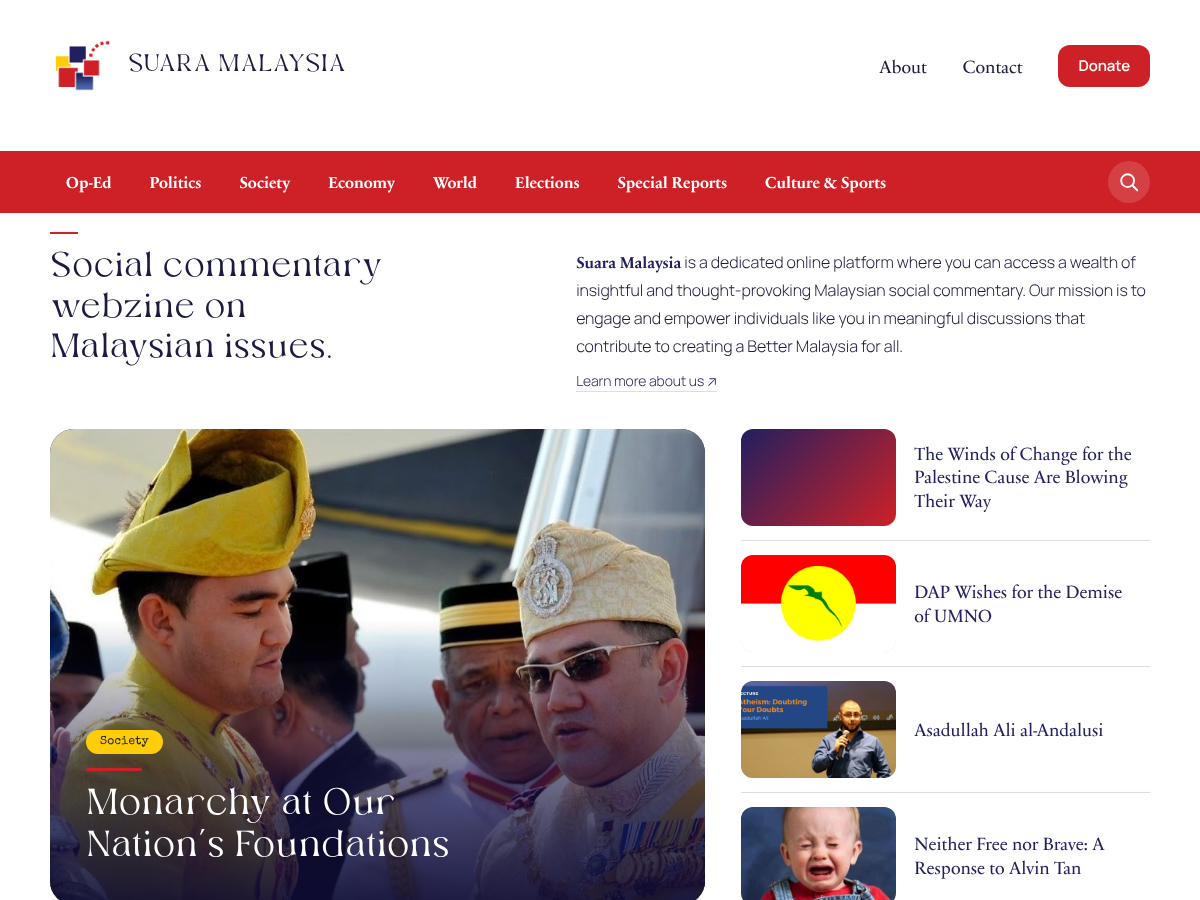
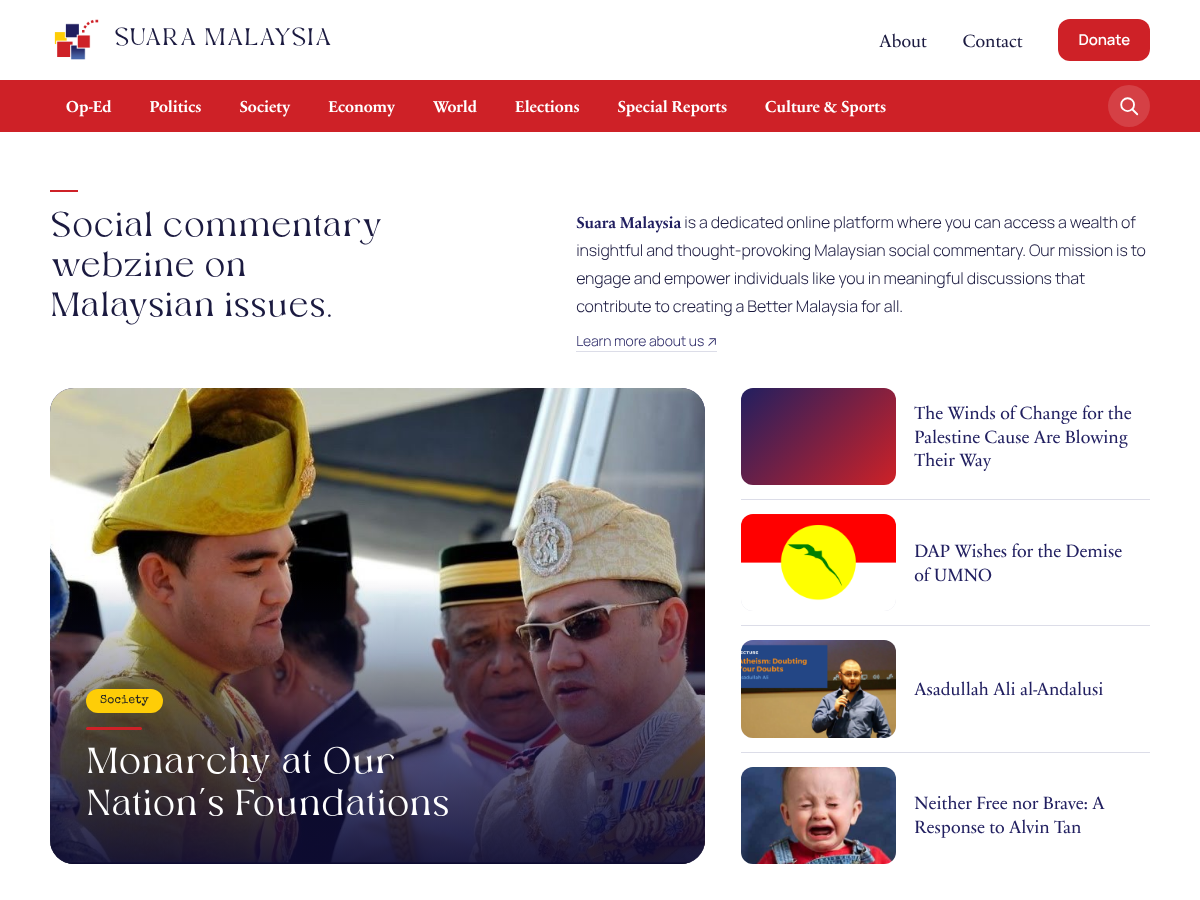
Compact the header and fix small-screen layout
Header drops from 213px to 132px on desktop: less padding, a 52px logo and
no default gap above the red bar. On phones the utility links collapse to
the Donate button, and the sections grid no longer forces sideways
scrolling. Theme screenshot refreshed.

Claude-Session: https://claude.ai/code/session_01KBJrUA6KUtaRJR17b9si96

diff --git a/assets/css/theme.css b/assets/css/theme.css
@@ -43,7 +43,7 @@ body { -webkit-font-smoothing: antialiased; }
 
 /* ---------- Header ---------- */
 .sm-header { background: var(--sm-base); }
-.sm-header__top { display: flex; align-items: center; justify-content: space-between; gap: var(--sm-gap); padding: clamp(18px, 3vw, 34px) 0; }
+.sm-header__top { display: flex; align-items: center; justify-content: space-between; gap: var(--sm-gap); padding: clamp(10px, 1.4vw, 14px) 0; }
 .sm-header__brand .wp-block-site-title { margin: 0; }
 .sm-header__brand .wp-block-site-title, .sm-footer__brand .wp-block-site-title { white-space: nowrap; }
 .sm-header__brand .wp-block-site-title a { display: inline-block; text-decoration: none; }
@@ -548,4 +548,33 @@ body { -webkit-font-smoothing: antialiased; }
 @media (max-width: 560px) {
 	.sm-footer__links .wp-block-navigation { column-gap: 18px; }
 	.sm-footer__links .wp-block-navigation-item + .wp-block-navigation-item::before { display: none; }
+}
+
+/* Compact header */
+.sm-header .sm-catbar { margin-top: 0; }
+.sm-header .sm-catbar__inner { padding-block: 4px; min-height: 52px; }
+.sm-header__brand { gap: 12px; }
+.sm-intro { margin-top: 0; padding-top: clamp(26px, 3.2vw, 40px); }
+.sm-intro::before { margin-bottom: 2px; }
+@media (max-width: 640px) {
+	.sm-header__top { flex-wrap: nowrap; gap: 12px; padding-block: 10px; }
+	.sm-header__brand { min-width: 0; gap: 10px; }
+	.sm-header__brand .wp-block-site-logo img { width: 40px; height: auto; }
+	.sm-header__brand .wp-block-site-title { font-size: 1.125rem; }
+	.sm-header__utility .wp-block-navigation-item:not(:last-child) { display: none; }
+	.sm-header__utility .wp-block-navigation li:last-child a { padding: 8px 16px; font-size: .875rem; }
+}
+@media (max-width: 360px) {
+	.sm-header__brand .wp-block-site-logo img { width: 32px; }
+	.sm-header__brand { gap: 8px; }
+	.sm-header__brand .wp-block-site-title { font-size: .9375rem; letter-spacing: 0; }
+	.sm-header__utility .wp-block-navigation li:last-child a { padding: 7px 12px; font-size: .8125rem; }
+	.sm-header__top { gap: 8px; }
+}
+@media (max-width: 900px) { .sm-home { grid-template-columns: minmax(0, 1fr); } }
+.sm-sections__item, .sm-home__main, .sm-home__aside { min-width: 0; }
+@media (max-width: 560px) {
+	.sm-section-heading { gap: 10px; }
+	.sm-section-heading__title { white-space: normal; }
+	.sm-section-heading__rule { min-width: 12px; }
 }

diff --git a/patterns/header.php b/patterns/header.php
@@ -18,7 +18,7 @@
 		<div class="wp-block-group alignwide sm-header__top">
 			<!-- wp:group {"className":"sm-header__brand","layout":{"type":"flex","flexWrap":"nowrap"}} -->
 			<div class="wp-block-group sm-header__brand">
-				<!-- wp:site-logo {"width":64,"shouldSyncIcon":true} /-->
+				<!-- wp:site-logo {"width":52,"shouldSyncIcon":true} /-->
 				<!-- wp:site-title {"level":0} /-->
 			</div>
 			<!-- /wp:group -->
